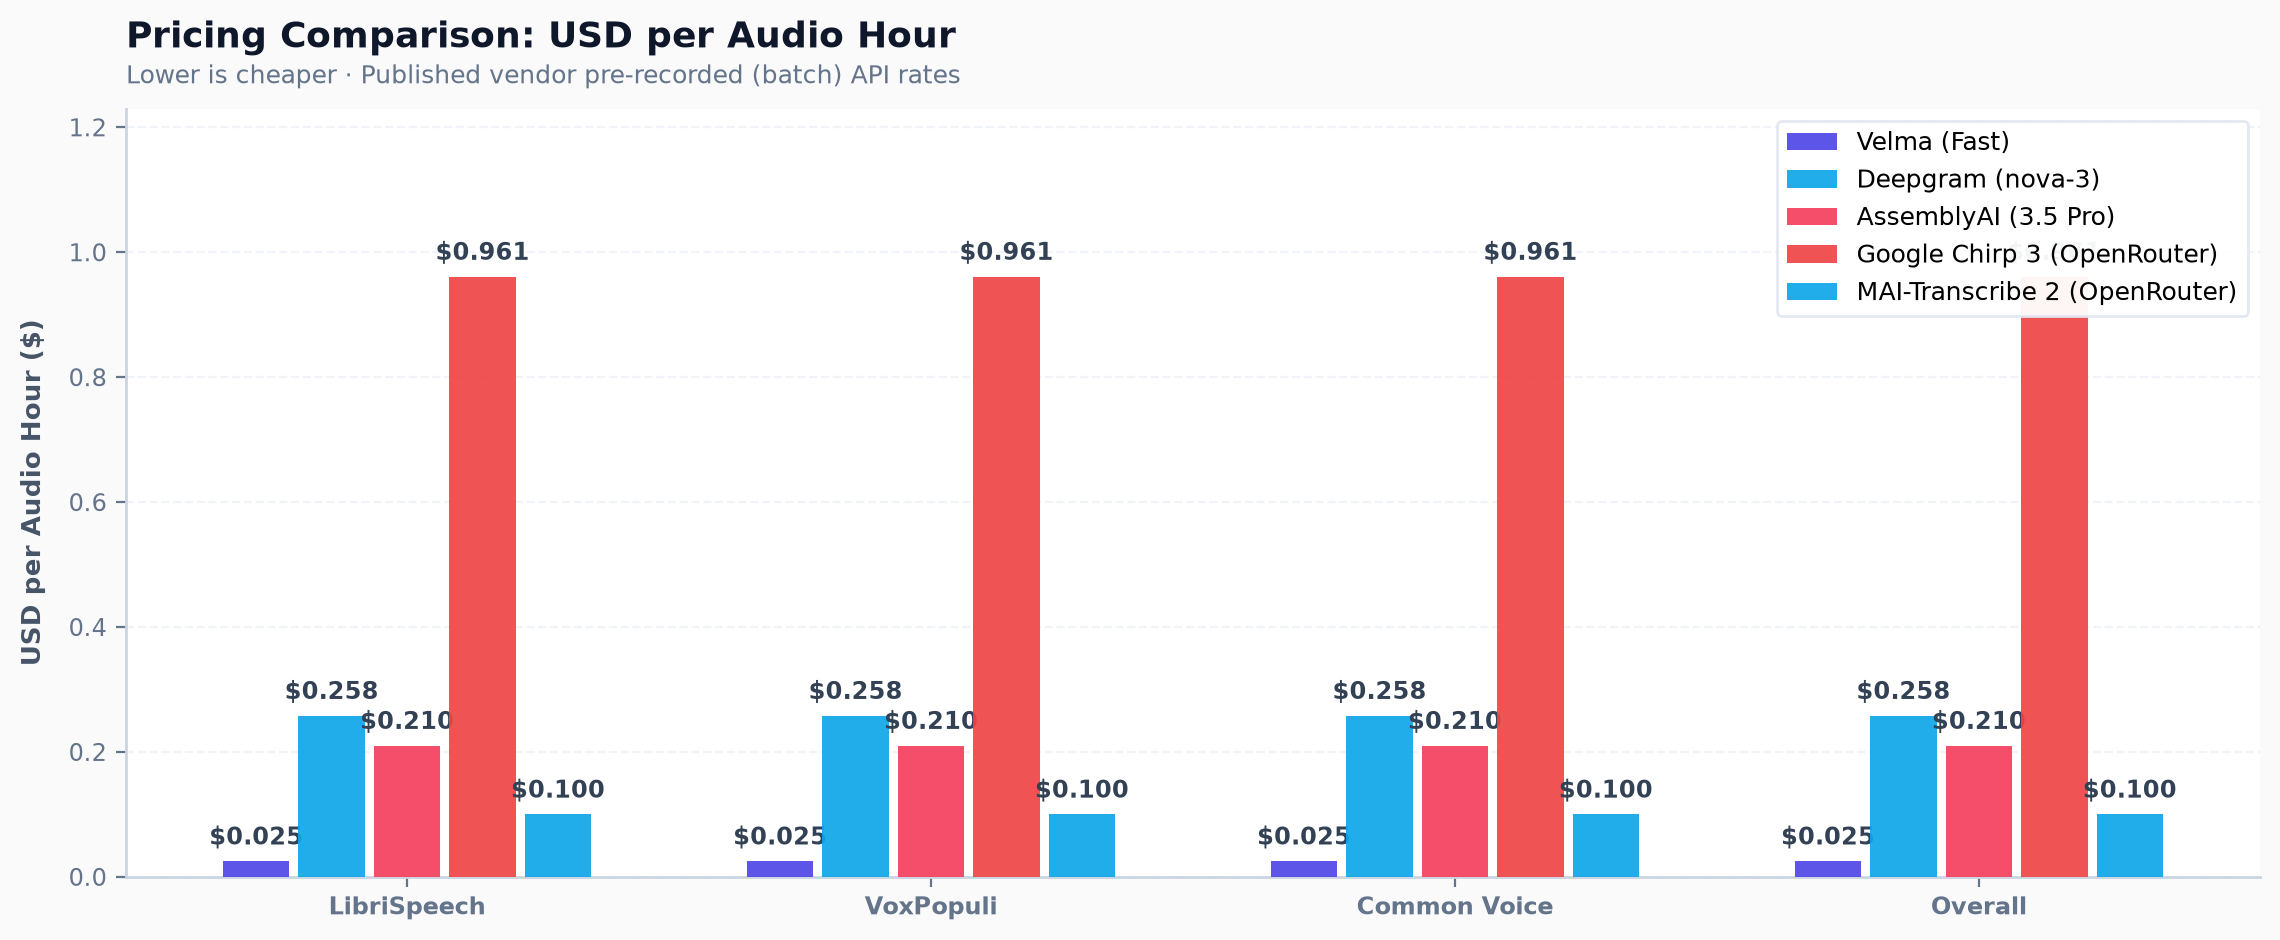
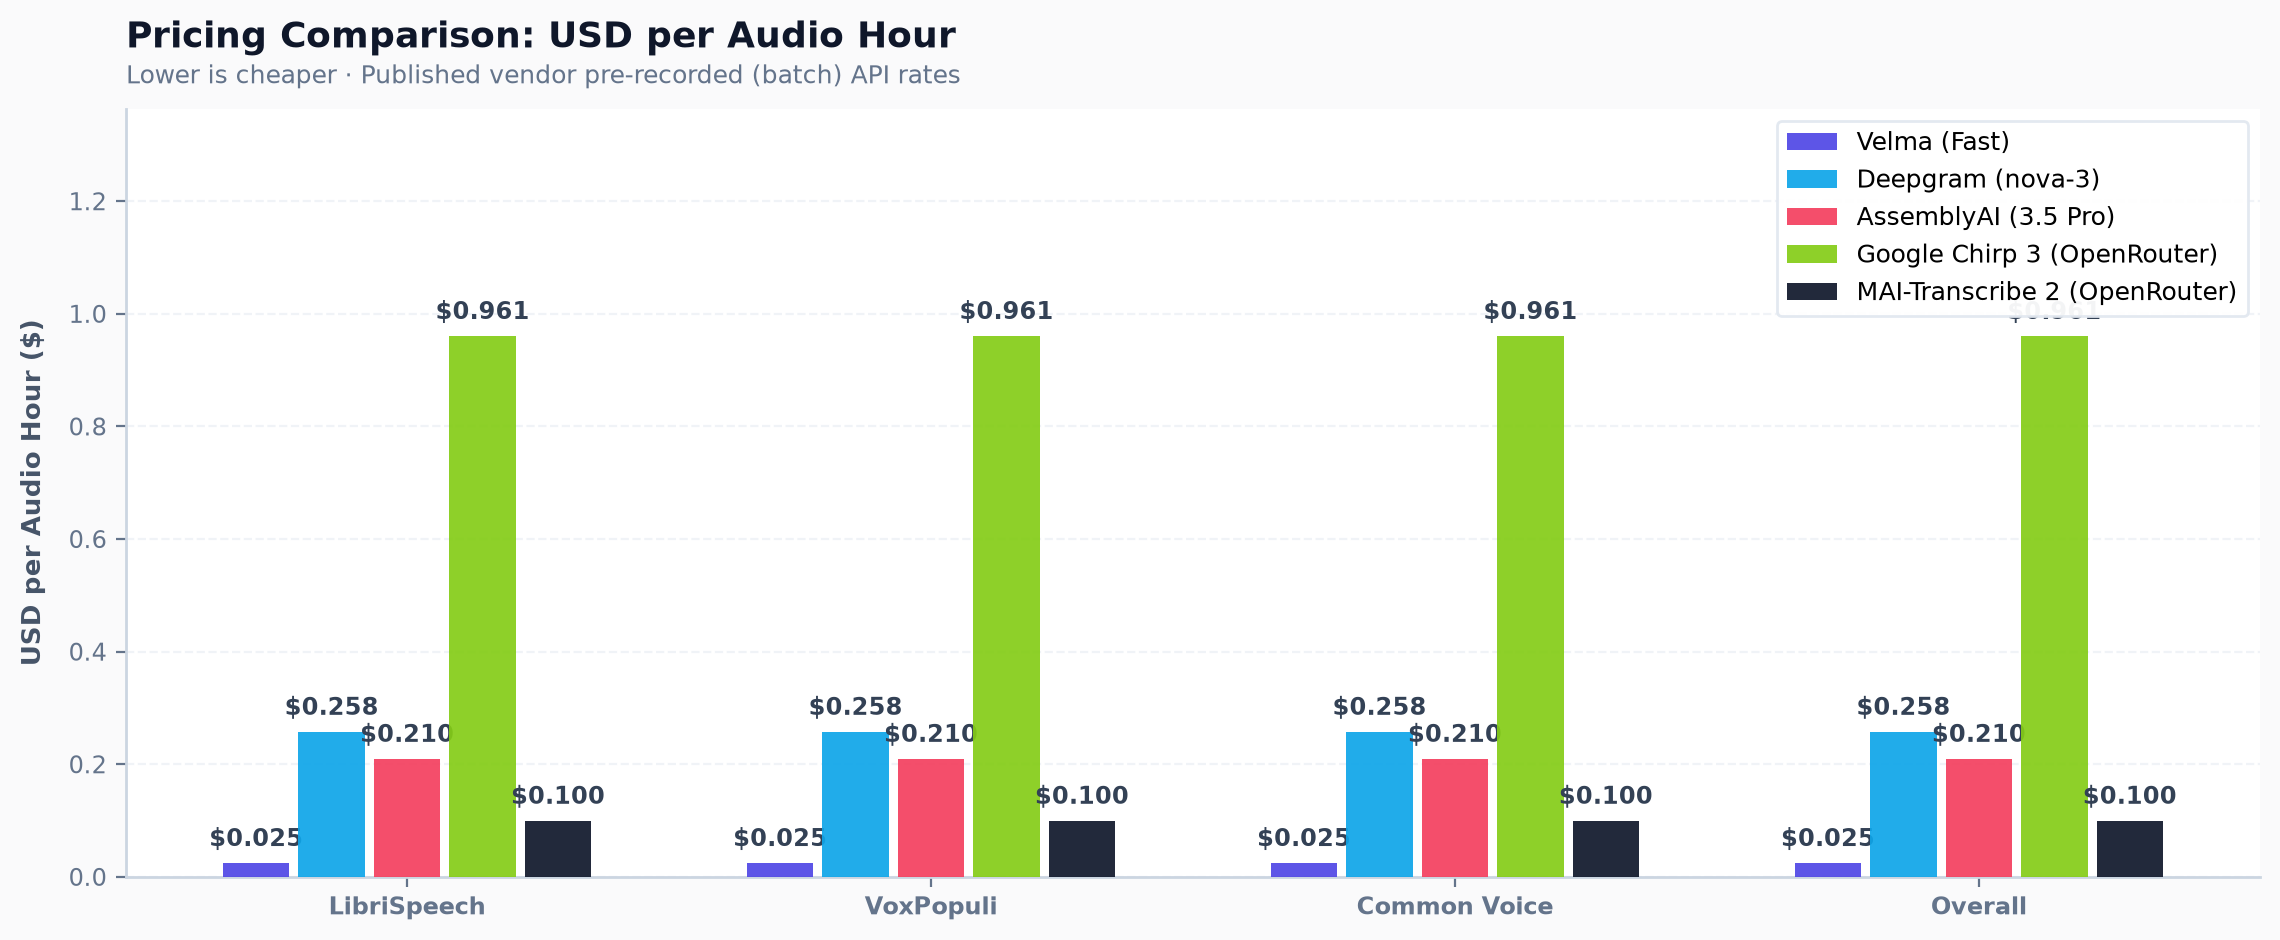
Plots: distinct colors for Chirp 3 and MAI-Transcribe 2, room for labels and legend

diff --git a/benchmark.py b/benchmark.py
@@ -216,8 +216,8 @@ def plot(summaries):
         "whisper_hf": "#10B981",  # Emerald
         "moonshine_tiny": "#F59E0B",  # Amber
         "moonshine_base": "#8B5CF6",  # Violet
-        "chirp_3": "#EF4444",  # Red
-        "mai_transcribe_2": "#0EA5E9",  # Blue
+        "chirp_3": "#84CC16",  # Lime
+        "mai_transcribe_2": "#0F172A",  # Navy
         "whisper_cpp_tiny": "#EC4899",  # Pink
         "whisper_cpp_base": "#14B8A6",  # Teal
         "slot_a": "#10B981",      # Emerald
@@ -227,7 +227,7 @@ def plot(summaries):
     def render_chart(rows, key, ylabel, fname, title, subtitle, unit="", is_currency=False):
         engines = list(dict.fromkeys(s["engine"] for s in rows))
         datasets = [d for d in [*ALL_DATASETS, "overall"] if any(s["dataset"] == d for s in rows)]
-        fig, ax = plt.subplots(figsize=(9 if len(engines) <= 4 else 11.5, 4.8), dpi=200)
+        fig, ax = plt.subplots(figsize=(9 if len(engines) <= 4 else (11.5 if len(engines) <= 7 else 13.5), 4.8), dpi=200)
         fig.patch.set_facecolor("#FAFAFB")
         ax.set_facecolor("#FFFFFF")
 
@@ -277,7 +277,7 @@ def plot(summaries):
         ax.set_xticklabels([dataset_display.get(d, d) for d in datasets], fontsize=9.5, fontweight="600", color="#334155")
         ax.set_ylabel(ylabel, fontsize=9.5, fontweight="600", color="#475569", labelpad=8)
 
-        ax.set_ylim(0, max(max_val * (1.28 if n <= 5 else 1.4), 0.1))
+        ax.set_ylim(0, max(max_val * (1.28 if n <= 4 else 1.42), 0.1))
         ax.tick_params(colors="#64748B", which="both", labelsize=8.5)
         ax.grid(axis="y", linestyle="--", alpha=0.5, color="#E2E8F0", zorder=0)
         ax.grid(axis="x", visible=False)
